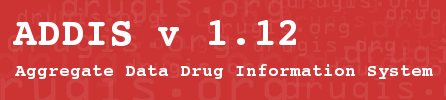
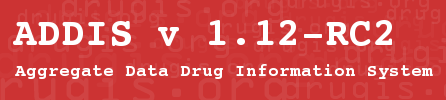
automated changes for 1.12-RC2 release

Changed region(s): [[0.6704, 0.18, 0.9036, 0.48]]

diff --git a/application/src/main/java/org/drugis/addis/gui/components/EntityTableDoubleClickListener.java b/application/src/main/java/org/drugis/addis/gui/components/EntityTableDoubleClickListener.java
@@ -1,6 +1,27 @@
-/**
- * 
+/*
+ * This file is part of ADDIS (Aggregate Data Drug Information System).
+ * ADDIS is distributed from http://drugis.org/.
+ * Copyright (C) 2009 Gert van Valkenhoef, Tommi Tervonen.
+ * Copyright (C) 2010 Gert van Valkenhoef, Tommi Tervonen, 
+ * Tijs Zwinkels, Maarten Jacobs, Hanno Koeslag, Florin Schimbinschi, 
+ * Ahmad Kamal, Daniel Reid.
+ * Copyright (C) 2011 Gert van Valkenhoef, Ahmad Kamal, 
+ * Daniel Reid, Florin Schimbinschi.
+ *
+ * This program is free software: you can redistribute it and/or modify
+ * it under the terms of the GNU General Public License as published by
+ * the Free Software Foundation, either version 3 of the License, or
+ * (at your option) any later version.
+ *
+ * This program is distributed in the hope that it will be useful,
+ * but WITHOUT ANY WARRANTY; without even the implied warranty of
+ * MERCHANTABILITY or FITNESS FOR A PARTICULAR PURPOSE.  See the
+ * GNU General Public License for more details.
+ *
+ * You should have received a copy of the GNU General Public License
+ * along with this program.  If not, see <http://www.gnu.org/licenses/>.
  */
+
 package org.drugis.addis.gui.components;
 
 import java.awt.event.MouseAdapter;
